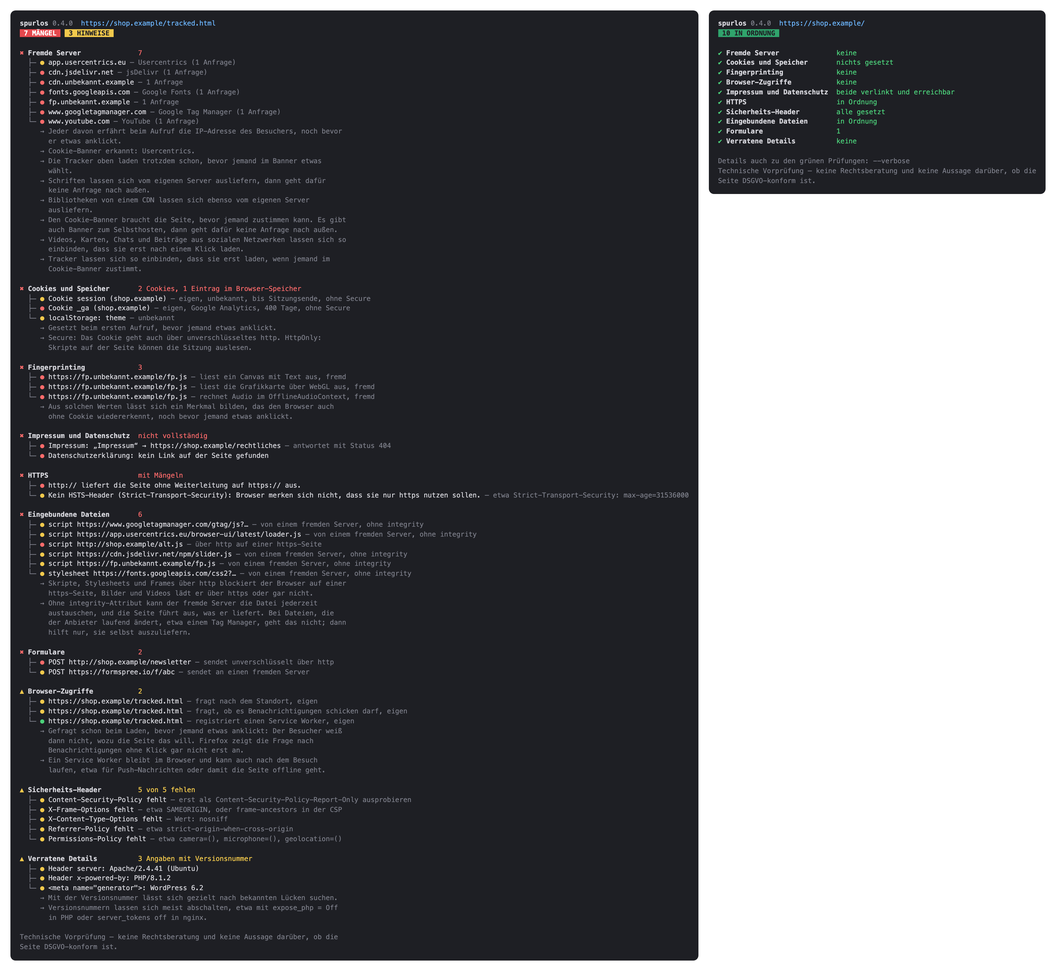
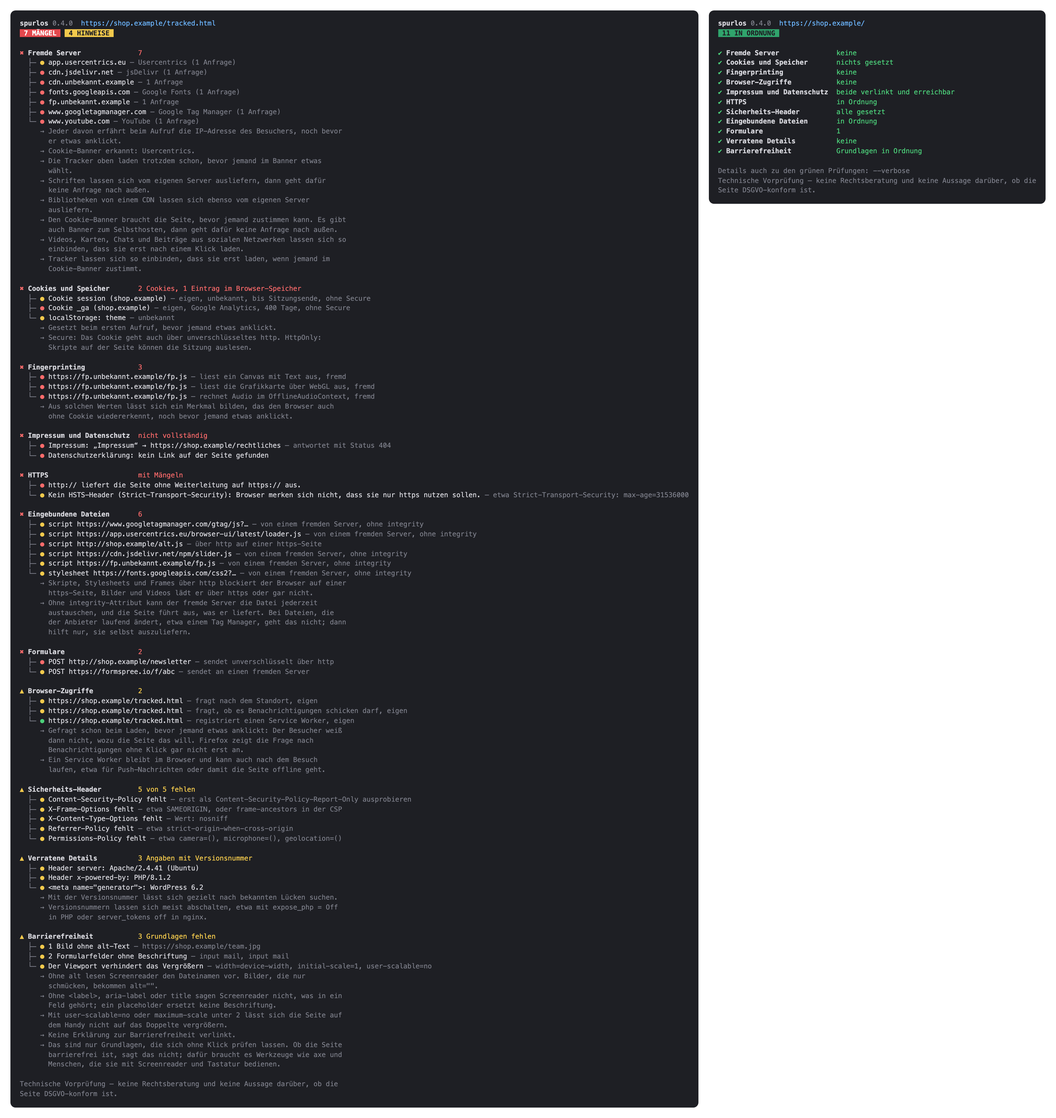
Neue Prüfung Barrierefreiheit: lang, Bilder ohne alt, Formularfelder ohne Beschriftung und gesperrtes Zoomen gelb; Link auf eine Erklärung zur Barrierefreiheit genannt; nur Grundlagen, keine Aussage über Barrierefreiheit

Changed region(s): [[0.0, 0.0, 0.4042, 0.9968], [0.653, 0.0, 0.9951, 0.218]]

diff --git a/examples/sauber.html b/examples/sauber.html
@@ -56,7 +56,7 @@ footer { margin-top: 28px; padding-top: 12px; border-top: 1px solid var(--line);
 <svg class="logo dark" xmlns="http://www.w3.org/2000/svg" viewBox="0 0 5255.92 1056" role="img" aria-label="spurlos"><title>spurlos</title><g transform="translate(-60.71 -70.67) scale(18.14)"><circle cx="28" cy="28" r="20" fill="none" stroke="#e9e9ee" stroke-width="5.5"/><line x1="42.5" y1="42.5" x2="57" y2="57" stroke="#e9e9ee" stroke-width="8" stroke-linecap="round"/><circle cx="17.5" cy="28" r="4.6" fill="#ff6b6b"/><circle cx="28" cy="28" r="4.6" fill="#f2c94c"/><circle cx="38.5" cy="28" r="4.6" fill="#4cd17a"/></g><path transform="translate(1195.92 846)" fill="#e9e9ee" d="M277 10Q209 10 158 -11.5Q107 -33 78.5 -71Q50 -109 50 -160L200 -160Q200 -136 221.5 -121.5Q243 -107 277 -107L321 -107Q362 -107 383.5 -122Q405 -137 405 -164Q405 -189 386 -202.5Q367 -216 327 -221L263 -229Q160 -242 113 -279Q66 -316 66 -392Q66 -472 121 -516Q176 -560 282 -560L320 -560Q421 -560 481 -516Q541 -472 541 -398L391 -398Q391 -418 371.5 -430.5Q352 -443 320 -443L282 -443Q245 -443 228 -430.5Q211 -418 211 -393Q211 -370 226.5 -358Q242 -346 276 -341L345 -332Q449 -319 499.5 -280Q550 -241 550 -164Q550 -80 492 -35Q434 10 321 10ZM646 180L646 -550L791 -550L791 -445L794 -445Q801 -491 830 -521Q869 -560 937 -560Q1020 -560 1070 -501.5Q1120 -443 1120 -345L1120 -205Q1120 -140 1097.5 -91.5Q1075 -43 1034 -16.5Q993 10 937 10Q869 10 830 -30Q801 -59 794 -105L791 -105L796 30L796 180ZM883 -120Q925 -120 947.5 -143.5Q970 -167 970 -210L970 -340Q970 -384 947.5 -407Q925 -430 883 -430Q842 -430 819 -406.5Q796 -383 796 -340L796 -210Q796 -167 819 -143.5Q842 -120 883 -120ZM1460 10Q1349 10 1286.5 -50Q1224 -110 1224 -214L1224 -550L1374 -550L1374 -215Q1374 -169 1396 -144.5Q1418 -120 1460 -120Q1501 -120 1523.5 -144.5Q1546 -169 1546 -215L1546 -550L1696 -550L1696 -214Q1696 -109 1633 -49.5Q1570 10 1460 10ZM1822 0L1822 -550L1962 -550L1962 -445L1964 -445Q1973 -488 1998 -515Q2039 -560 2118 -560Q2209 -560 2259.5 -505Q2310 -450 2310 -350L2310 -305L2150 -305L2150 -340Q2150 -385 2125.5 -410Q2101 -435 2060 -435Q2017 -435 1994.5 -410Q1972 -385 1972 -340L1972 0ZM2710 0Q2652 0 2608 -24.5Q2564 -49 2539.5 -93Q2515 -137 2515 -195L2515 -595L2345 -595L2345 -730L2665 -730L2665 -195Q2665 -168 2681.5 -151.5Q2698 -135 2725 -135L2885 -135L2885 0ZM3200 10Q3127 10 3073 -17.5Q3019 -45 2989.5 -94.5Q2960 -144 2960 -210L2960 -340Q2960 -406 2989.5 -455.5Q3019 -505 3073 -532.5Q3127 -560 3200 -560Q3274 -560 3327.5 -532.5Q3381 -505 3410.5 -455.5Q3440 -406 3440 -340L3440 -210Q3440 -144 3410.5 -94.5Q3381 -45 3327.5 -17.5Q3274 10 3200 10ZM3200 -120Q3244 -120 3267 -143.5Q3290 -167 3290 -210L3290 -340Q3290 -384 3267 -407Q3244 -430 3200 -430Q3157 -430 3133.5 -407Q3110 -384 3110 -340L3110 -210Q3110 -167 3133.5 -143.5Q3157 -120 3200 -120ZM3757 10Q3689 10 3638 -11.5Q3587 -33 3558.5 -71Q3530 -109 3530 -160L3680 -160Q3680 -136 3701.5 -121.5Q3723 -107 3757 -107L3801 -107Q3842 -107 3863.5 -122Q3885 -137 3885 -164Q3885 -189 3866 -202.5Q3847 -216 3807 -221L3743 -229Q3640 -242 3593 -279Q3546 -316 3546 -392Q3546 -472 3601 -516Q3656 -560 3762 -560L3800 -560Q3901 -560 3961 -516Q4021 -472 4021 -398L3871 -398Q3871 -418 3851.5 -430.5Q3832 -443 3800 -443L3762 -443Q3725 -443 3708 -430.5Q3691 -418 3691 -393Q3691 -370 3706.5 -358Q3722 -346 3756 -341L3825 -332Q3929 -319 3979.5 -280Q4030 -241 4030 -164Q4030 -80 3972 -35Q3914 10 3801 10Z"/></svg>
 0.4.0</p>
 </div>
-<p class="summary"><span class="badge green">10 in Ordnung</span></p>
+<p class="summary"><span class="badge green">11 in Ordnung</span></p>
 </header>
 <details class="check green"><summary class="head"><span class="mark">✔</span><span class="title">Fremde Server</span><span class="value">keine</span></summary><p class="note">Beim Aufruf ging keine Anfrage an einen anderen Server.</p></details>
 <div class="check green"><p class="head"><span class="mark">✔</span><span class="title">Cookies und Speicher</span><span class="value">nichts gesetzt</span></p></div>
@@ -68,7 +68,8 @@ footer { margin-top: 28px; padding-top: 12px; border-top: 1px solid var(--line);
 <div class="check green"><p class="head"><span class="mark">✔</span><span class="title">Eingebundene Dateien</span><span class="value">in Ordnung</span></p></div>
 <details class="check green"><summary class="head"><span class="mark">✔</span><span class="title">Formulare</span><span class="value">1</span></summary><ul><li class="green">POST https://shop.example/kontakt<span class="detail"> – sendet verschlüsselt an die eigene Seite</span></li></ul></details>
 <details class="check green"><summary class="head"><span class="mark">✔</span><span class="title">Verratene Details</span><span class="value">keine</span></summary><p class="note">Weder Header noch Seite nennen die Software dahinter.</p></details>
[1 lines of base64/hex data omitted]
+<details class="check green"><summary class="head"><span class="mark">✔</span><span class="title">Barrierefreiheit</span><span class="value">Grundlagen in Ordnung</span></summary><ul><li class="green">Erklärung zur Barrierefreiheit: „Barrierefreiheit“ → https://shop.example/barrierefreiheit</li></ul><p class="note">Das sind nur Grundlagen, die sich ohne Klick prüfen lassen. Ob die Seite barrierefrei ist, sagt das nicht; dafür braucht es Werkzeuge wie axe und Menschen, die sie mit Screenreader und Tastatur bedienen.</p></details>
[1 lines of base64/hex data omitted]
 </section>
 <footer>Technische Vorprüfung – keine Rechtsberatung und keine Aussage darüber, ob die Seite DSGVO-konform ist.</footer>
 </main>

diff --git a/examples/mit-maengeln.html b/examples/mit-maengeln.html
@@ -56,7 +56,7 @@ footer { margin-top: 28px; padding-top: 12px; border-top: 1px solid var(--line);
 <svg class="logo dark" xmlns="http://www.w3.org/2000/svg" viewBox="0 0 5255.92 1056" role="img" aria-label="spurlos"><title>spurlos</title><g transform="translate(-60.71 -70.67) scale(18.14)"><circle cx="28" cy="28" r="20" fill="none" stroke="#e9e9ee" stroke-width="5.5"/><line x1="42.5" y1="42.5" x2="57" y2="57" stroke="#e9e9ee" stroke-width="8" stroke-linecap="round"/><circle cx="17.5" cy="28" r="4.6" fill="#ff6b6b"/><circle cx="28" cy="28" r="4.6" fill="#f2c94c"/><circle cx="38.5" cy="28" r="4.6" fill="#4cd17a"/></g><path transform="translate(1195.92 846)" fill="#e9e9ee" d="M277 10Q209 10 158 -11.5Q107 -33 78.5 -71Q50 -109 50 -160L200 -160Q200 -136 221.5 -121.5Q243 -107 277 -107L321 -107Q362 -107 383.5 -122Q405 -137 405 -164Q405 -189 386 -202.5Q367 -216 327 -221L263 -229Q160 -242 113 -279Q66 -316 66 -392Q66 -472 121 -516Q176 -560 282 -560L320 -560Q421 -560 481 -516Q541 -472 541 -398L391 -398Q391 -418 371.5 -430.5Q352 -443 320 -443L282 -443Q245 -443 228 -430.5Q211 -418 211 -393Q211 -370 226.5 -358Q242 -346 276 -341L345 -332Q449 -319 499.5 -280Q550 -241 550 -164Q550 -80 492 -35Q434 10 321 10ZM646 180L646 -550L791 -550L791 -445L794 -445Q801 -491 830 -521Q869 -560 937 -560Q1020 -560 1070 -501.5Q1120 -443 1120 -345L1120 -205Q1120 -140 1097.5 -91.5Q1075 -43 1034 -16.5Q993 10 937 10Q869 10 830 -30Q801 -59 794 -105L791 -105L796 30L796 180ZM883 -120Q925 -120 947.5 -143.5Q970 -167 970 -210L970 -340Q970 -384 947.5 -407Q925 -430 883 -430Q842 -430 819 -406.5Q796 -383 796 -340L796 -210Q796 -167 819 -143.5Q842 -120 883 -120ZM1460 10Q1349 10 1286.5 -50Q1224 -110 1224 -214L1224 -550L1374 -550L1374 -215Q1374 -169 1396 -144.5Q1418 -120 1460 -120Q1501 -120 1523.5 -144.5Q1546 -169 1546 -215L1546 -550L1696 -550L1696 -214Q1696 -109 1633 -49.5Q1570 10 1460 10ZM1822 0L1822 -550L1962 -550L1962 -445L1964 -445Q1973 -488 1998 -515Q2039 -560 2118 -560Q2209 -560 2259.5 -505Q2310 -450 2310 -350L2310 -305L2150 -305L2150 -340Q2150 -385 2125.5 -410Q2101 -435 2060 -435Q2017 -435 1994.5 -410Q1972 -385 1972 -340L1972 0ZM2710 0Q2652 0 2608 -24.5Q2564 -49 2539.5 -93Q2515 -137 2515 -195L2515 -595L2345 -595L2345 -730L2665 -730L2665 -195Q2665 -168 2681.5 -151.5Q2698 -135 2725 -135L2885 -135L2885 0ZM3200 10Q3127 10 3073 -17.5Q3019 -45 2989.5 -94.5Q2960 -144 2960 -210L2960 -340Q2960 -406 2989.5 -455.5Q3019 -505 3073 -532.5Q3127 -560 3200 -560Q3274 -560 3327.5 -532.5Q3381 -505 3410.5 -455.5Q3440 -406 3440 -340L3440 -210Q3440 -144 3410.5 -94.5Q3381 -45 3327.5 -17.5Q3274 10 3200 10ZM3200 -120Q3244 -120 3267 -143.5Q3290 -167 3290 -210L3290 -340Q3290 -384 3267 -407Q3244 -430 3200 -430Q3157 -430 3133.5 -407Q3110 -384 3110 -340L3110 -210Q3110 -167 3133.5 -143.5Q3157 -120 3200 -120ZM3757 10Q3689 10 3638 -11.5Q3587 -33 3558.5 -71Q3530 -109 3530 -160L3680 -160Q3680 -136 3701.5 -121.5Q3723 -107 3757 -107L3801 -107Q3842 -107 3863.5 -122Q3885 -137 3885 -164Q3885 -189 3866 -202.5Q3847 -216 3807 -221L3743 -229Q3640 -242 3593 -279Q3546 -316 3546 -392Q3546 -472 3601 -516Q3656 -560 3762 -560L3800 -560Q3901 -560 3961 -516Q4021 -472 4021 -398L3871 -398Q3871 -418 3851.5 -430.5Q3832 -443 3800 -443L3762 -443Q3725 -443 3708 -430.5Q3691 -418 3691 -393Q3691 -370 3706.5 -358Q3722 -346 3756 -341L3825 -332Q3929 -319 3979.5 -280Q4030 -241 4030 -164Q4030 -80 3972 -35Q3914 10 3801 10Z"/></svg>
 0.4.0</p>
 </div>
-<p class="summary"><span class="badge red">7 Mängel</span> <span class="badge yellow">3 Hinweise</span></p>
+<p class="summary"><span class="badge red">7 Mängel</span> <span class="badge yellow">4 Hinweise</span></p>
 </header>
 <details class="check red" open><summary class="head"><span class="mark">✖</span><span class="title">Fremde Server</span><span class="value">7</span></summary><ul><li class="yellow">app.usercentrics.eu<span class="detail"> – Usercentrics (1 Anfrage)</span></li><li class="red">cdn.jsdelivr.net<span class="detail"> – jsDelivr (1 Anfrage)</span></li><li class="red">cdn.unbekannt.example<span class="detail"> – 1 Anfrage</span></li><li class="red">fonts.googleapis.com<span class="detail"> – Google Fonts (1 Anfrage)</span></li><li class="red">fp.unbekannt.example<span class="detail"> – 1 Anfrage</span></li><li class="red">www.googletagmanager.com<span class="detail"> – Google Tag Manager (1 Anfrage)</span></li><li class="red">www.youtube.com<span class="detail"> – YouTube (1 Anfrage)</span></li></ul><p class="note">Jeder davon erfährt beim Aufruf die IP-Adresse des Besuchers, noch bevor er etwas anklickt.</p><p class="note">Cookie-Banner erkannt: Usercentrics.</p><p class="note">Die Tracker oben laden trotzdem schon, bevor jemand im Banner etwas wählt.</p><p class="note">Schriften lassen sich vom eigenen Server ausliefern, dann geht dafür keine Anfrage nach außen.</p><p class="note">Bibliotheken von einem CDN lassen sich ebenso vom eigenen Server ausliefern.</p><p class="note">Den Cookie-Banner braucht die Seite, bevor jemand zustimmen kann. Es gibt auch Banner zum Selbsthosten, dann geht dafür keine Anfrage nach außen.</p><p class="note">Videos, Karten, Chats und Beiträge aus sozialen Netzwerken lassen sich so einbinden, dass sie erst nach einem Klick laden.</p><p class="note">Tracker lassen sich so einbinden, dass sie erst laden, wenn jemand im Cookie-Banner zustimmt.</p></details>
 <details class="check red" open><summary class="head"><span class="mark">✖</span><span class="title">Cookies und Speicher</span><span class="value">2 Cookies, 1 Eintrag im Browser-Speicher</span></summary><ul><li class="yellow">Cookie session (shop.example)<span class="detail"> – eigen, unbekannt, bis Sitzungsende, ohne Secure</span></li><li class="red">Cookie _ga (shop.example)<span class="detail"> – eigen, Google Analytics, 400 Tage, ohne Secure</span></li><li class="yellow">localStorage: theme<span class="detail"> – unbekannt</span></li></ul><p class="note">Gesetzt beim ersten Aufruf, bevor jemand etwas anklickt.</p><p class="note">Secure: Das Cookie geht auch über unverschlüsseltes http. HttpOnly: Skripte auf der Seite können die Sitzung auslesen.</p></details>
@@ -68,7 +68,8 @@ footer { margin-top: 28px; padding-top: 12px; border-top: 1px solid var(--line);
 <details class="check yellow" open><summary class="head"><span class="mark">▲</span><span class="title">Browser-Zugriffe</span><span class="value">2</span></summary><ul><li class="yellow">https://shop.example/tracked.html<span class="detail"> – fragt nach dem Standort, eigen</span></li><li class="yellow">https://shop.example/tracked.html<span class="detail"> – fragt, ob es Benachrichtigungen schicken darf, eigen</span></li><li class="green">https://shop.example/tracked.html<span class="detail"> – registriert einen Service Worker, eigen</span></li></ul><p class="note">Gefragt schon beim Laden, bevor jemand etwas anklickt: Der Besucher weiß dann nicht, wozu die Seite das will. Firefox zeigt die Frage nach Benachrichtigungen ohne Klick gar nicht erst an.</p><p class="note">Ein Service Worker bleibt im Browser und kann auch nach dem Besuch laufen, etwa für Push-Nachrichten oder damit die Seite offline geht.</p></details>
 <details class="check yellow" open><summary class="head"><span class="mark">▲</span><span class="title">Sicherheits-Header</span><span class="value">5 von 5 fehlen</span></summary><ul><li class="yellow">Content-Security-Policy fehlt<span class="detail"> – erst als Content-Security-Policy-Report-Only ausprobieren</span></li><li class="yellow">X-Frame-Options fehlt<span class="detail"> – etwa SAMEORIGIN, oder frame-ancestors in der CSP</span></li><li class="yellow">X-Content-Type-Options fehlt<span class="detail"> – Wert: nosniff</span></li><li class="yellow">Referrer-Policy fehlt<span class="detail"> – etwa strict-origin-when-cross-origin</span></li><li class="yellow">Permissions-Policy fehlt<span class="detail"> – etwa camera=(), microphone=(), geolocation=()</span></li></ul></details>
 <details class="check yellow" open><summary class="head"><span class="mark">▲</span><span class="title">Verratene Details</span><span class="value">3 Angaben mit Versionsnummer</span></summary><ul><li class="yellow">Header server: Apache/2.4.41 (Ubuntu)</li><li class="yellow">Header x-powered-by: PHP/8.1.2</li><li class="yellow">&lt;meta name=&quot;generator&quot;&gt;: WordPress 6.2</li></ul><p class="note">Mit der Versionsnummer lässt sich gezielt nach bekannten Lücken suchen.</p><p class="note">Versionsnummern lassen sich meist abschalten, etwa mit expose_php = Off in PHP oder server_tokens off in nginx.</p></details>
[1 lines of base64/hex data omitted]
+<details class="check yellow" open><summary class="head"><span class="mark">▲</span><span class="title">Barrierefreiheit</span><span class="value">3 Grundlagen fehlen</span></summary><ul><li class="yellow">1 Bild ohne alt-Text<span class="detail"> – https://shop.example/team.jpg</span></li><li class="yellow">2 Formularfelder ohne Beschriftung<span class="detail"> – input mail, input mail</span></li><li class="yellow">Der Viewport verhindert das Vergrößern<span class="detail"> – width=device-width, initial-scale=1, user-scalable=no</span></li></ul><p class="note">Ohne alt lesen Screenreader den Dateinamen vor. Bilder, die nur schmücken, bekommen alt=&quot;&quot;.</p><p class="note">Ohne &lt;label&gt;, aria-label oder title sagen Screenreader nicht, was in ein Feld gehört; ein placeholder ersetzt keine Beschriftung.</p><p class="note">Mit user-scalable=no oder maximum-scale unter 2 lässt sich die Seite auf dem Handy nicht auf das Doppelte vergrößern.</p><p class="note">Keine Erklärung zur Barrierefreiheit verlinkt.</p><p class="note">Das sind nur Grundlagen, die sich ohne Klick prüfen lassen. Ob die Seite barrierefrei ist, sagt das nicht; dafür braucht es Werkzeuge wie axe und Menschen, die sie mit Screenreader und Tastatur bedienen.</p></details>
[1 lines of base64/hex data omitted]
 </section>
 <footer>Technische Vorprüfung – keine Rechtsberatung und keine Aussage darüber, ob die Seite DSGVO-konform ist.</footer>
 </main>

diff --git a/src/checks.ts b/src/checks.ts
@@ -41,6 +41,8 @@ export type ResourceFinding = Resource & { problem: 'insecure' | 'no-integrity' 
 export type Caller = { host: string; thirdParty: boolean; service: Service | undefined; own?: OwnReason }
 export type FingerprintFinding = Fingerprint & Caller
 export type AccessFinding = Access & Caller
+/** what of the accessibility basics is missing; statement: the link to an accessibility statement */
+export type AccessibilityProblem = 'lang' | 'images' | 'fields' | 'zoom'
 
 export type Result =
   | { check: 'third-party'; level: Level; hosts: ThirdParty[]; consent: string[]; selfHosted: string[]; platform?: string }
@@ -53,6 +55,7 @@ export type Result =
   | { check: 'resources'; level: Level; findings: ResourceFinding[] }
   | { check: 'fingerprinting'; level: Level; findings: FingerprintFinding[] }
   | { check: 'access'; level: Level; findings: AccessFinding[] }
+  | { check: 'accessibility'; level: Level; problems: AccessibilityProblem[]; images: string[]; fields: string[]; viewport?: string; statement?: Link }
 
 /** worst first */
 export const SEVERITY: Level[] = ['red', 'yellow', 'green']
@@ -491,8 +494,59 @@ export function access(scan: Scan): Result {
   return { check: 'access', level: worst(findings.map(accessLevel)), findings }
 }
 
+/**
+ * Whether the viewport keeps people from zooming in: user-scalable=no (or 0), or a maximum-scale under 2, as WCAG asks
+ * for 200 %.
+ */
+export function blocksZoom(viewport: string): boolean {
+  const props = new Map(
+    viewport.toLowerCase().split(/[,;]/).map((p): [string, string] => {
+      const [name = '', value = ''] = p.split('=')
+      return [name.trim(), value.trim()]
+    }),
+  )
+  const scalable = props.get('user-scalable')
+  const max = Number(props.get('maximum-scale'))
+  return scalable === 'no' || scalable === '0' || (props.has('maximum-scale') && Number.isFinite(max) && max < 2)
+}
+
+const STATEMENT = /barrierefrei|accessibility|zugänglichkeit/i
+
+/** The link to an accessibility statement, by its text, else its address; one on the page's own site first. */
+export function statementLink(links: Link[], pageUrl: string): Link | undefined {
+  const own = site(new URL(pageUrl).hostname)
+  const rank = (l: Link) => (site(new URL(l.href).hostname) === own ? 0 : 2) + (STATEMENT.test(l.text) ? 0 : 1)
+  return links.filter(l => /^https?:/.test(l.href) && (STATEMENT.test(l.text) || STATEMENT.test(l.href))).sort((a, b) => rank(a) - rank(b))[0]
+}
+
+/**
+ * The basics of accessibility a machine can tell without a click: the page names its language, images have an alt
+ * text, form fields a label, the viewport lets people zoom. Each missing is yellow: whether a page is accessible takes
+ * far more than this. A link to an accessibility statement is named, its absence only noted.
+ */
+export function accessibility(scan: Scan): Result {
+  const a = scan.accessibility
+  const zoom = a.viewport !== undefined && blocksZoom(a.viewport)
+  const problems: AccessibilityProblem[] = [
+    ...(a.lang?.trim() ? [] : ['lang' as const]),
+    ...(a.images.length ? ['images' as const] : []),
+    ...(a.fields.length ? ['fields' as const] : []),
+    ...(zoom ? ['zoom' as const] : []),
+  ]
+  const link = statementLink(scan.links, scan.finalUrl)
+  return {
+    check: 'accessibility',
+    level: problems.length ? 'yellow' : 'green',
+    problems,
+    images: a.images,
+    fields: a.fields,
+    ...(zoom && a.viewport ? { viewport: a.viewport } : {}),
+    ...(link ? { statement: { text: link.text, href: link.href } } : {}),
+  }
+}
+
 export function runChecks(scan: Scan, now = Date.now()): Result[] {
-  return [thirdParty(scan), cookies(scan), fingerprinting(scan), access(scan), legal(scan), https(scan, now), headers(scan), resources(scan), forms(scan), disclosure(scan)]
+  return [thirdParty(scan), cookies(scan), fingerprinting(scan), access(scan), legal(scan), https(scan, now), headers(scan), resources(scan), forms(scan), disclosure(scan), accessibility(scan)]
 }
 
 /**
@@ -513,6 +567,7 @@ export const key = {
   /** by host, not by script: a fingerprinting service may serve its script under a new path on every visit */
   fingerprint: (f: { api: string; host: string }) => `fingerprinting ${f.api} ${hostKey(f.host)}`,
   access: (a: { api: string; host: string }) => `access ${a.api} ${hostKey(a.host)}`,
+  accessibility: (what: AccessibilityProblem | 'statement') => `accessibility ${what}`,
   // without the query: a cache buster like ?ver=6.4.2 changes with every update, the file stays the same
   resource: (r: { problem: string; url: string }) => `resource ${r.problem} ${withoutQuery(r.url)}`,
 }
@@ -578,6 +633,11 @@ function unnumbered(r: Result): Finding[] {
       return list(r.findings).map(f => ({ key: key.fingerprint(f), level: fingerprintLevel(f) }))
     case 'access':
       return list(r.findings).map(a => ({ key: key.access(a), level: accessLevel(a) }))
+    case 'accessibility':
+      return [
+        ...list(r.problems).map(p => ({ key: key.accessibility(p), level: 'yellow' as const })),
+        ...(r.statement ? [{ key: key.accessibility('statement'), level: 'green' as const }] : []),
+      ]
     case 'forms':
       return list(r.forms).map(f => ({ key: key.form(f), level: formLevel(f) }))
     case 'disclosure':

diff --git a/src/scan.ts b/src/scan.ts
@@ -67,6 +67,11 @@ export type Fingerprint = { api: FingerprintApi; script: string }
 /** what a script asks the browser for: a permission the visitor has to grant, or a service worker that stays */
 export type AccessApi = 'notifications' | 'push' | 'geolocation' | 'camera' | 'microphone' | 'service-worker'
 export type Access = { api: AccessApi; script: string }
+/**
+ * Basics of accessibility a machine can tell: lang of <html>, the viewport meta tag, images without alt (their
+ * address) and form fields without a label (tag and name), both only where visible and not hidden from screen readers.
+ */
+export type Accessibility = { lang?: string; viewport?: string; images: string[]; fields: string[] }
 const FINGERPRINT_APIS: readonly string[] = ['canvas', 'webgl', 'audio'] satisfies FingerprintApi[]
 const ACCESS_APIS: readonly string[] = ['notifications', 'push', 'geolocation', 'camera', 'microphone', 'service-worker'] satisfies AccessApi[]
 
@@ -205,6 +210,7 @@ export type Scan = {
   fingerprinting: Fingerprint[]
   /** what scripts asked the browser for before any click: permissions and service workers, once per API and script */
   access: Access[]
+  accessibility: Accessibility
   /** a Content-Security-Policy set in a <meta http-equiv> tag, the only way to one on hosts without own headers */
   metaCsp?: string
   /** a referrer policy set in <meta name="referrer"> */
@@ -344,7 +350,7 @@ export async function scan(url: string, options: ScanOptions = {}): Promise<Scan
     }))
     // what a visitor sees first, cookie banner included; a page that cannot be pictured still gets its report
     const screenshot = options.screenshot ? await page.screenshot({ type: 'jpeg', quality: 70 }).then(b => b.toString('base64'), () => undefined) : undefined
-    const { storage, links, forms, resources, metaCsp, metaReferrer, generator } = await page.evaluate(() => {
+    const { storage, links, forms, resources, metaCsp, metaReferrer, generator, accessibility } = await page.evaluate(() => {
       const storage: StorageEntry[] = []
       for (const area of ['localStorage', 'sessionStorage'] as const) {
         const s = window[area]
@@ -387,7 +393,19 @@ export async function scan(url: string, options: ScanOptions = {}): Promise<Scan
       const meta = [...document.querySelectorAll('meta[http-equiv]')].find(m => m.getAttribute('http-equiv')?.toLowerCase() === 'content-security-policy')
       const referrer = document.querySelector('meta[name="referrer" i]')?.getAttribute('content') ?? null
       const generator = document.querySelector('meta[name="generator" i]')?.getAttribute('content') ?? null
-      return { storage, links, forms, resources, metaCsp: meta?.getAttribute('content') ?? null, metaReferrer: referrer, generator }
+      // what a screen reader meets: visible, and not hidden from it
+      const perceived = (el: Element) => el.getClientRects().length > 0 && !el.closest('[aria-hidden="true" i]')
+      const named = (el: Element) => ['aria-label', 'aria-labelledby', 'title'].some(a => (el.getAttribute(a) ?? '').trim() !== '')
+      const images = (all('img') as HTMLImageElement[])
+        .filter(i => !i.hasAttribute('alt') && !/^(presentation|none)$/i.test(i.getAttribute('role') ?? '') && !named(i) && perceived(i))
+        .map(i => i.currentSrc || i.src)
+      const fields = (all('input, select, textarea') as HTMLInputElement[])
+        .filter(f => !(f.tagName === 'INPUT' && /^(hidden|submit|button|reset|image)$/i.test(f.type)) && !f.labels?.length && !named(f) && perceived(f))
+        .map(f => (f.name ? `${f.tagName.toLowerCase()} ${f.name}` : f.tagName.toLowerCase()))
+      const lang = document.documentElement.getAttribute('lang')
+      const viewport = document.querySelector('meta[name="viewport" i]')?.getAttribute('content')
+      const accessibility: Accessibility = { images, fields, ...(lang !== null ? { lang } : {}), ...(viewport != null ? { viewport } : {}) }
+      return { storage, links, forms, resources, metaCsp: meta?.getAttribute('content') ?? null, metaReferrer: referrer, generator, accessibility }
     })
 
     const headers = await response.allHeaders()
@@ -410,6 +428,7 @@ export async function scan(url: string, options: ScanOptions = {}): Promise<Scan
       resources,
       fingerprinting,
       access,
+      accessibility,
       userAgent,
       sandbox,
     }

diff --git a/test/checks.test.ts b/test/checks.test.ts
@@ -1,11 +1,11 @@
 import { describe, expect, test } from 'vitest'
 import {
-  access, compare, consentManagers, cookies, disclosure, findings, fingerprinting, forms, headers, https, legal, legalLinks, resources, serviceOfCookie, serviceOfStorage, serviceOfHost,
+  access, accessibility, blocksZoom, compare, consentManagers, cookies, disclosure, findings, fingerprinting, forms, headers, https, legal, legalLinks, resources, serviceOfCookie, serviceOfStorage, serviceOfHost,
   thirdParty, weakCsp, type Result,
 } from '../src/checks.ts'
 import type { Scan, Visit } from '../src/scan.ts'
 
-const base: Scan = { url: 'https://www.firma.de/', finalUrl: 'https://www.firma.de/', settled: true, requests: [], cookies: [], storage: [], headers: {}, links: [], legal: [], forms: [], resources: [], fingerprinting: [], access: [], userAgent: 'test', sandbox: true }
+const base: Scan = { url: 'https://www.firma.de/', finalUrl: 'https://www.firma.de/', settled: true, requests: [], cookies: [], storage: [], headers: {}, links: [], legal: [], forms: [], resources: [], fingerprinting: [], access: [], accessibility: { lang: 'de', images: [], fields: [] }, userAgent: 'test', sandbox: true }
 const req = (host: string) => ({ url: `https://${host}/x`, host, type: 'script' })
 
 describe('fingerprinting', () => {
@@ -45,6 +45,35 @@ describe('fingerprinting', () => {
     expect(fingerprinting(base).level).toBe('green')
     const { fingerprinting: _, ...old } = base
     expect(fingerprinting(old as Scan).level).toBe('green')
+  })
+})
+
+describe('accessibility', () => {
+  test('each missing basic is yellow; a statement is named, from the own site first', () => {
+    const r = accessibility({
+      ...base,
+      accessibility: { lang: ' ', images: ['https://www.firma.de/a.jpg'], fields: [], viewport: 'width=device-width, maximum-scale=1' },
+      links: [
+        { text: 'Accessibility', href: 'https://agentur.de/accessibility' },
+        { text: 'Erklärung zur Barrierefreiheit', href: 'https://www.firma.de/barrierefreiheit' },
+      ],
+    })
+    expect(r).toMatchObject({ level: 'yellow', problems: ['lang', 'images', 'zoom'], statement: { href: 'https://www.firma.de/barrierefreiheit' } })
+    expect(findings(r).map(f => `${f.level} ${f.key}`)).toEqual([
+      'yellow accessibility lang',
+      'yellow accessibility images',
+      'yellow accessibility zoom',
+      'green accessibility statement',
+    ])
+    expect(accessibility(base)).toMatchObject({ level: 'green', problems: [] })
+  })
+
+  test('the viewport blocks zooming with user-scalable=no or 0, or a maximum-scale under 2', () => {
+    expect(blocksZoom('width=device-width, user-scalable=no')).toBe(true)
+    expect(blocksZoom('width=device-width; user-scalable=0')).toBe(true)
+    expect(blocksZoom('maximum-scale=1.5')).toBe(true)
+    expect(blocksZoom('width=device-width, initial-scale=1, maximum-scale=5')).toBe(false)
+    expect(blocksZoom('width=device-width, initial-scale=1')).toBe(false)
   })
 })
 

diff --git a/src/lang/de.ts b/src/lang/de.ts
@@ -1,5 +1,5 @@
 import type { AccessApi, FingerprintApi } from '../scan.ts'
-import type { FormFinding, HttpRedirect, LegalKind, Level, OwnReason, ResourceFinding, Result } from '../checks.ts'
+import type { AccessibilityProblem, FormFinding, HttpRedirect, LegalKind, Level, OwnReason, ResourceFinding, Result } from '../checks.ts'
 import { AUTH_REJECTED, AUTH_REQUIRED, NO_RESPONSE, REFUSED } from '../scan.ts'
 import { plural } from './plural.ts'
 
@@ -83,6 +83,7 @@ Hilft dir spurlos? https://ko-fi.com/mmohrx`,
     cookies: 'Cookies und Speicher',
     fingerprinting: 'Fingerprinting',
     access: 'Browser-Zugriffe',
+    accessibility: 'Barrierefreiheit',
     legal: 'Impressum und Datenschutz',
     https: 'HTTPS',
     headers: 'Sicherheits-Header',
@@ -162,6 +163,21 @@ Hilft dir spurlos? https://ko-fi.com/mmohrx`,
   } satisfies Record<AccessApi, string>,
   accessWhy: 'Gefragt schon beim Laden, bevor jemand etwas anklickt: Der Besucher weiß dann nicht, wozu die Seite das will. Firefox zeigt die Frage nach Benachrichtigungen ohne Klick gar nicht erst an.',
   accessWorker: 'Ein Service Worker bleibt im Browser und kann auch nach dem Besuch laufen, etwa für Push-Nachrichten oder damit die Seite offline geht.',
+  a11yOk: 'Grundlagen in Ordnung',
+  a11yValue: (n: number) => plural(n, 'Grundlage fehlt', 'Grundlagen fehlen'),
+  a11yLang: 'Die Seite nennt ihre Sprache nicht (lang am <html>)',
+  a11yImages: (n: number) => `${plural(n, 'Bild', 'Bilder')} ohne alt-Text`,
+  a11yFields: (n: number) => `${plural(n, 'Formularfeld', 'Formularfelder')} ohne Beschriftung`,
+  a11yZoom: 'Der Viewport verhindert das Vergrößern',
+  a11yStatement: 'Erklärung zur Barrierefreiheit',
+  a11yWhy: {
+    lang: 'Ohne lang lesen Screenreader den Text womöglich mit der Aussprache einer anderen Sprache vor.',
+    images: 'Ohne alt lesen Screenreader den Dateinamen vor. Bilder, die nur schmücken, bekommen alt="".',
+    fields: 'Ohne <label>, aria-label oder title sagen Screenreader nicht, was in ein Feld gehört; ein placeholder ersetzt keine Beschriftung.',
+    zoom: 'Mit user-scalable=no oder maximum-scale unter 2 lässt sich die Seite auf dem Handy nicht auf das Doppelte vergrößern.',
+  } satisfies Record<AccessibilityProblem, string>,
+  a11yNoStatement: 'Keine Erklärung zur Barrierefreiheit verlinkt.',
+  a11yScope: 'Das sind nur Grundlagen, die sich ohne Klick prüfen lassen. Ob die Seite barrierefrei ist, sagt das nicht; dafür braucht es Werkzeuge wie axe und Menschen, die sie mit Screenreader und Tastatur bedienen.',
   cookiesNecessary: 'Nur bekannte Einträge, wie sie Frameworks und Proxys für den Betrieb setzen.',
 
   legal: (level: Level): string => ({ green: 'beide verlinkt und erreichbar', yellow: 'beide verlinkt, nicht alles prüfbar', red: 'nicht vollständig' })[level],

diff --git a/src/lang/en.ts b/src/lang/en.ts
@@ -80,6 +80,7 @@ Does spurlos help you? https://ko-fi.com/mmohrx`,
     cookies: 'Cookies and storage',
     fingerprinting: 'Fingerprinting',
     access: 'Browser access',
+    accessibility: 'Accessibility',
     legal: 'Legal notice and privacy policy',
     https: 'HTTPS',
     headers: 'Security headers',
@@ -159,6 +160,21 @@ Does spurlos help you? https://ko-fi.com/mmohrx`,
   },
   accessWhy: 'Asked right on load, before anyone clicks anything: the visitor does not know what the site wants it for. Firefox does not even show the notification prompt without a click.',
   accessWorker: 'A service worker stays in the browser and can run after the visit too, for push messages, say, or so the site works offline.',
+  a11yOk: 'basics in order',
+  a11yValue: n => plural(n, 'basic missing', 'basics missing'),
+  a11yLang: 'The page does not name its language (lang on <html>)',
+  a11yImages: n => `${plural(n, 'image', 'images')} without alt text`,
+  a11yFields: n => `${plural(n, 'form field', 'form fields')} without a label`,
+  a11yZoom: 'The viewport keeps people from zooming in',
+  a11yStatement: 'Accessibility statement',
+  a11yWhy: {
+    lang: 'Without lang, screen readers may read the text with the pronunciation of another language.',
+    images: 'Without alt, screen readers read out the file name. Images that only decorate get alt="".',
+    fields: 'Without <label>, aria-label or title, screen readers do not say what goes into a field; a placeholder is no label.',
+    zoom: 'With user-scalable=no or a maximum-scale under 2, the page cannot be zoomed to twice its size on a phone.',
+  },
+  a11yNoStatement: 'No accessibility statement linked.',
+  a11yScope: 'These are only basics that can be checked without a click. They do not say whether the site is accessible; that takes tools such as axe and people using it with a screen reader and keyboard.',
   cookiesNecessary: 'Only known entries, as frameworks and proxies set them to run a site.',
 
   legal: level => ({ green: 'both linked and reachable', yellow: 'both linked, not all checkable', red: 'incomplete' })[level],

diff --git a/src/report.ts b/src/report.ts
@@ -179,6 +179,22 @@ function unkeyed(t: Messages, r: Result, now: number): Section {
       }
     }
 
+    case 'accessibility': {
+      const first = (list: string[]) => list.slice(0, 3).join(', ') + (list.length > 3 ? ', …' : '')
+      const items: Item[] = r.problems.map(p =>
+        p === 'images' ? item(key.accessibility(p), 'yellow', t.a11yImages(r.images.length), first(r.images.map(withoutQuery)))
+        : p === 'fields' ? item(key.accessibility(p), 'yellow', t.a11yFields(r.fields.length), first(r.fields))
+        : p === 'zoom' ? item(key.accessibility(p), 'yellow', t.a11yZoom, r.viewport)
+        : item(key.accessibility(p), 'yellow', t.a11yLang),
+      )
+      if (r.statement) items.push(item(key.accessibility('statement'), 'green', `${t.a11yStatement}: ${t.quote(r.statement.text || r.statement.href)} → ${r.statement.href}`))
+      return {
+        value: r.problems.length ? t.a11yValue(r.problems.length) : t.a11yOk,
+        items,
+        notes: [...r.problems.map(p => t.a11yWhy[p]), ...(r.statement ? [] : [t.a11yNoStatement]), t.a11yScope],
+      }
+    }
+
     case 'disclosure': {
       if (!r.findings.length) return { value: t.none, items: [], notes: [t.disclosureNone] }
       const versions = r.findings.filter(d => d.version).length

diff --git a/test/scan.test.ts b/test/scan.test.ts
@@ -26,8 +26,10 @@ describe('scan', { timeout: 30_000 }, () => {
       resources: 'green',
       forms: 'green',
       disclosure: 'green',
+      accessibility: 'green',
     })
     expect(pick(results, 'https').http).toBe('redirects')
+    expect(pick(results, 'accessibility').statement?.href).toBe(`${SITE}/barrierefreiheit`)
     expect(s.legal.map(v => v.url)).toEqual([`${SITE}/impressum`, `${SITE}/datenschutz`])
     expect(s).toMatchObject({ metaCsp: "default-src 'self'", metaReferrer: 'no-referrer' })
 
@@ -135,6 +137,13 @@ describe('scan', { timeout: 30_000 }, () => {
         ['service-worker', `${SITE}/tracked.html`, false],
       ]),
     )
+    // the image without alt, both newsletter fields without a label, the viewport that locks zooming
+    expect(pick(results, 'accessibility')).toMatchObject({
+      level: 'yellow',
+      problems: ['images', 'fields', 'zoom'],
+      images: [`${SITE}/team.jpg`],
+      fields: ['input mail', 'input mail'],
+    })
     // set without Secure on an https page
     expect(pick(results, 'cookies').cookies.find(c => c.name === 'session')?.missing).toEqual(['Secure'])
 

diff --git a/src/mcp.ts b/src/mcp.ts
@@ -21,7 +21,7 @@ const TOOL = {
     'Opens a website in a fresh browser like a first-time visitor who clicks nothing, and reports what happens before any consent: ' +
     'requests to third-party servers, which cookie banner loads, cookies and browser storage, scripts that fingerprint the browser or ask for permissions on load, whether Impressum and privacy policy are ' +
     'linked and reachable, HTTPS and certificate, security headers and how tight the CSP is, files embedded over http or without ' +
-    'integrity, where forms send to, and software versions the site discloses. ' +
+    'integrity, where forms send to, software versions the site discloses, and accessibility basics. ' +
     'Each check gets a traffic light (red, yellow, green). Passive only: it loads the page, opens the legal pages via their links ' +
     'and asks http:// once. It is a technical pre-check, not legal advice: say so when passing the result on. Takes 5 to 30 seconds.',
   inputSchema: {

diff --git a/test/sites/tracked.html b/test/sites/tracked.html
@@ -4,6 +4,7 @@
   <meta charset="utf-8">
   <title>Seite mit Fremdinhalten</title>
   <meta name="generator" content="WordPress 6.2">
+  <meta name="viewport" content="width=device-width, initial-scale=1, user-scalable=no">
   <link rel="stylesheet" href="https://fonts.googleapis.com/css2?family=Inter">
   <script src="https://www.googletagmanager.com/gtag/js?id=G-TEST"></script>
   <script src="/tracker.js"></script>
@@ -27,6 +28,8 @@
   <h1>Seite mit Fremdinhalten</h1>
   <iframe src="https://www.youtube.com/embed/abc"></iframe>
   <img src="https://cdn.unbekannt.example/bild.png" alt="">
+  <img src="/team.jpg" width="200" height="100">
+  <img src="/deko.png" width="20" height="20" role="presentation">
   <form action="http://shop.example/newsletter" method="post"><input name="mail"></form>
   <form action="https://formspree.io/f/abc" method="post"><input name="mail"></form>
   <a href="/rechtliches">Impressum</a>

diff --git a/test/sites/clean.html b/test/sites/clean.html
@@ -10,7 +10,7 @@
 <body>
   <h1>Saubere Seite</h1>
   <p>Eigene Schrift, eigenes Stylesheet, keine Cookies.</p>
-  <form action="/kontakt" method="post"><input name="mail"><button>Senden</button></form>
-  <a href="/impressum">Impressum</a> · <a href="/datenschutz">Datenschutz</a>
+  <form action="/kontakt" method="post"><label>E-Mail <input name="mail"></label><button>Senden</button></form>
+  <a href="/impressum">Impressum</a> · <a href="/datenschutz">Datenschutz</a> · <a href="/barrierefreiheit">Barrierefreiheit</a>
 </body>
 </html>
